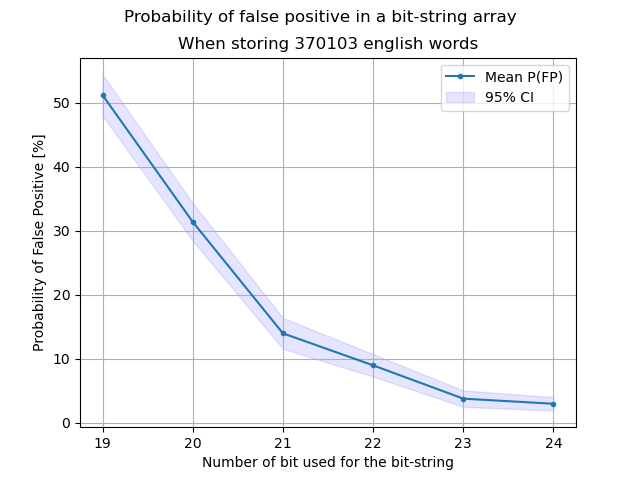
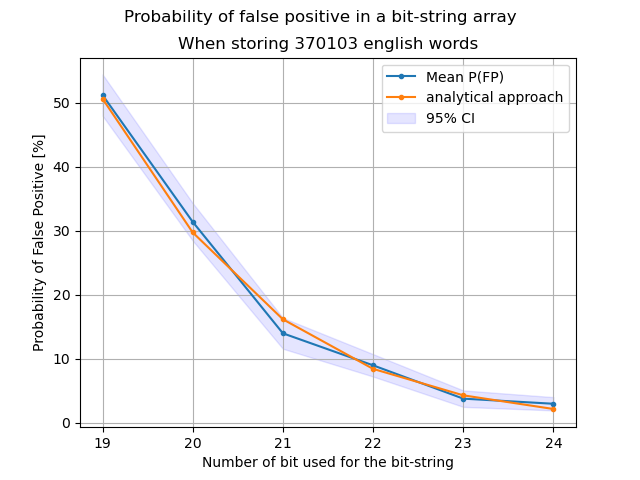
Done without optional parts

diff --git a/Lab3/set_membership_script.py b/Lab3/set_membership_script.py
@@ -46,8 +46,13 @@ def compute_all_hashes(md5, num_hashes, b):
 
 with open("Lab3/words_alpha.txt", "r") as txt:
     words = csv.reader(txt)
+    flag = False
     for line in words:
         words_set.add(line[0])
+        if flag == False and w > 19500:
+            if asizeof.asizeof(words_set) > 1048576:
+                one_MB_bound = w
+                flag = True
         w += 1
 
 print("We have to deal with {} words".format(w))
@@ -55,12 +60,14 @@ print("We have to deal with {} words".format(w))
 start = time.time()
 false_positive_prob_means = []
 false_positive_prob_cis = []
+bs_fp_probabilities_analytical = []
 bf_false_positive_prob_means = []
 bf_false_positive_prob_cis = []
 size_list = []
 bloom_size_list = []
 k_opt_list = []
 theorical_fp_prob_list = []
+theoretical_bf_size_list = []
 
 random.seed(seed)
 
@@ -70,11 +77,11 @@ for n_bits in b:
     k_opt = get_k_opt(n_bits, w)
     k_opt_list.append(int(k_opt)) #rounded at the first integer
 
-    theorical_fp_prob = (1 - math.e ** (-k_opt*w/2**n_bits))**k_opt
+    theorical_fp_prob = (1 - math.e ** (-k_opt*w/2**n_bits))**k_opt # for bloom filter
     theorical_fp_prob_list.append(theorical_fp_prob*100)
     
-    bit_string_array = np.zeros(2**n_bits) # initialize the bitstring array with all zero
-    bloom_filter = np.zeros(2**n_bits) # initialize the bloom filter with all zero
+    bit_string_array = np.zeros(2**n_bits, dtype=bool) # initialize the bitstring array with all zero
+    bloom_filter = np.zeros(2**n_bits, dtype=bool) # initialize the bloom filter with all zero
 
     for word in words_set:
         word_hash = hashlib.md5(word.encode("utf-8")) # md5 hash
@@ -85,12 +92,16 @@ for n_bits in b:
         bloom_filter[all_bits_to_update] = 1 # set the bits to 1 for BF
 
     # test prob of false positive
+    bs_fp_probability = (np.sum(bit_string_array) / 2 ** n_bits) * 100 # analytical fp prob bitstring
+    analytical_prob_bf = (np.sum(bloom_filter)/(2**n_bits))**k_opt # analytical fp prob bloom filter
     ba_size = asizeof.asizeof(bit_string_array) # get the size
-    bf_size = asizeof.asizeof(bloom_filter)
+    bf_size = asizeof.asizeof(bloom_filter) # get the size
+    bs_fp_probabilities_analytical.append(bs_fp_probability) # append in the list
     size_list.append(ba_size/1024) # append it in order to save the output in kb
     bloom_size_list.append(bf_size/1024) # append the size of BF in kb
     run_means = np.zeros(runs) # list with means of the runs
     bf_run_means = np.zeros(runs) # list with means of the runs for BF
+    
 
     for run in range(runs):
         fp_counter = 0 # false positive counter for bitstring
@@ -122,21 +133,33 @@ for n_bits in b:
     ci_bf = retrieve_ci(mean_bf, std_bf) # retrieve the CI
     bf_false_positive_prob_means.append(mean_bf*100)
     bf_false_positive_prob_cis.append(ci_bf*100)
+    theoretical_bf_size = w * 1.44 * math.log2(1/theorical_fp_prob) # theoretical size for bloom filter in bits
+    theoretical_bf_size_list.append(theoretical_bf_size/(1024*8)) # append in kb
 
     if debug:
+        print('>>>BITSTRING')
         print(f'Bitstring fp for {n_bits}bits = {mean*100}% (mean value)')
+        print(f'Bitstring analytical fp prob. for {n_bits} = {bs_fp_probability}%')
+        print(f'Bitstring actual size = {ba_size/1024} kb')
+        
+        print('>>>BLOOM FILTER')
+        print(f'Bloom filter analytical fp for {n_bits}bits = {analytical_prob_bf*100}% (mean value)')
         print(f'Bloom filter fp for {n_bits}bits = {mean_bf*100}% (mean value)')
-        print(f'Bloom filter theory fp for {n_bits}bits = {theorical_fp_prob*100}%\n')
-    
+        print(f'Bloom filter theory fp for {n_bits}bits = {theorical_fp_prob*100}%')
+        print(f'Bloom filter theoretical size = {theoretical_bf_size/(1024*8)} kb')
+        print(f'Bloom filter actual size = {bf_size/1024} kb')
+        print('\n')
+
 
     #print(f"P(FP) = {fp_counter/fp_attempt*100:.2f}% for 2^{n_bits} bits allocated")
     #print(f"Bit String Array size with 2^{n_bits} bits allocated = {ba_size/1024:.2f} KB")
     #print(f"Bloom filter size with 2^{n_bits} bits allocated = {bf_size/1024:.2f} KB")
 
-datafile_sim = open(f"Lab3/BitstringHash{runs}runs.dat", "w") # open an empty file
-print("#bits\tciLow\tP(FP)\tciHigh\tsize(KB)\tkopt\tBFciLow\tBFp(FP)\tBFciHigh\tTHfpProb", file=datafile_sim)
+datafile_sim = open(f"Lab3/lab3{runs}runs.dat", "w") # open an empty file
+print("#bits\tanalyticalFPBS\tciLow\tP(FP)\tciHigh\tsize(KB)\tkopt\tBFciLow\tBFp(FP)\tBFciHigh\tTHfpProb\tBFsize(KB)", file=datafile_sim)
 for i in range(len(b)):
     print(b[i], # nbits
+        bs_fp_probabilities_analytical[i], # fp prob analytical approach bitstring
         false_positive_prob_means[i] - false_positive_prob_cis[i], # ccLow bitstring
         false_positive_prob_means[i], # mean bitstring
         false_positive_prob_means[i] + false_positive_prob_cis[i], # ciHigh bitstring
@@ -146,8 +169,55 @@ for i in range(len(b)):
         bf_false_positive_prob_means[i], # mean bloom filter
         bf_false_positive_prob_means[i] + bf_false_positive_prob_cis[i], # ciHigh bloom filter
         theorical_fp_prob_list[i], # theoretical fp prob for bloom filter
+        bloom_size_list[i], # bloom filter size
+        theoretical_bf_size_list[i], # theoretical bf size
         sep="\t", file=datafile_sim)
 datafile_sim.close()
+
+
+print("\nTo resume:\n")
+pd.set_option('display.float_format', lambda x: '%.8f' % x)
+df = pd.DataFrame(data={
+                        'Bits per fingerprint':b,
+                        'Optimal # hash functions:':k_opt_list,
+                        'Prob. false positive [%]':theorical_fp_prob_list,
+                        'Min theoretical memory [KB]':theoretical_bf_size_list,
+                        'Actual memory [KB]':bloom_size_list}
+                )
+
+print(df.set_index('Bits per fingerprint'))
+
+# question 9
+#
+# 1 MB = 1024 KB = 1048576 Bytes = 8388608 bits
+# 
+# reversing the formula for bitstring we have
+# b = log2(n) where n is the total storage for bitstring array
+# 
+# same for bloom filter#
+
+one_MB_bits = math.log2(8388608)
+
+print(f"\nHaving 1MB available for the dictionary set membership problem\n\
+    corresponds to the case with {one_MB_bits} bits for the fingerprinting\n")
+
+# Computation for bits allocated for fingerprint table
+# 8388608 bits = 370103 * b
+b_finger = 8388608 / w
+b_finger = math.floor(b_finger) # round to the floor integer
+print('Bits allocated for each fingerprint = ', b_finger)
+n = 2 ** b_finger # get n 
+finger_fp_prob = (1-(1-(1/n))**w) * 100 # compute the false positive probability
+
+print('\n')
+df = pd.DataFrame(data={
+                        'Storage':['Words set', 'Fingerprint set', 'Bitstring array', 'Bloom filter'],
+                        'Prob. false positive':[f'It stores {one_MB_bound} words', str(finger_fp_prob)+'%', '4.3161%', '0.0019%'],
+                        }
+                )
+
+print(df.set_index('Storage'))
+
 
 
 

diff --git a/Lab3/graph_script.py b/Lab3/graph_script.py
@@ -5,6 +5,7 @@ import os
 def plot_graph_probability(input_filename,output_filename):
 
     b = []
+    analytical = []
     mean = []
     ci1=[]
     ci2=[]
@@ -21,11 +22,13 @@ def plot_graph_probability(input_filename,output_filename):
                 first_line=False
             else:
                 b.append(int(row[0]))
-                ci1.append(float(row[1]))
-                mean.append(float(row[2]))
-                ci2.append(float(row[3]))
+                analytical.append(float(row[1]))
+                ci1.append(float(row[2]))
+                mean.append(float(row[3]))
+                ci2.append(float(row[4]))
             
     plt.plot(b, mean, label='Mean P(FP)', marker='.')
+    plt.plot(b, analytical, label='analytical approach', marker='.')
     plt.fill_between(b, ci1, ci2, color='b', alpha=.1, label='95% CI')
     plt.xlabel('Number of bit used for the bit-string')
     plt.ylabel('Probability of False Positive [%]')
@@ -55,7 +58,7 @@ def plot_size_graph(input_filename,output_filename):
                 first_line=False
             else:
                 b.append(int(row[0]))
-                size.append(float(row[4]))
+                size.append(float(row[5]))
             
     plt.plot(b, size, marker='.')
     plt.xlabel('Number of bit used for the bit-string')
@@ -88,10 +91,10 @@ def plot_graph_probability_bloom(input_filename,output_filename):
                 first_line=False
             else:
                 b.append(int(row[0]))
-                ci1.append(float(row[6]))
-                mean.append(float(row[7]))
-                ci2.append(float(row[8]))
-                theory.append(float(row[9]))
+                ci1.append(float(row[7]))
+                mean.append(float(row[8]))
+                ci2.append(float(row[9]))
+                theory.append(float(row[10]))
             
     plt.plot(b, mean, label='Mean P(FP)', marker='.')
     plt.plot(b, theory, label='Theoretical P(FP)', marker='.')
@@ -124,7 +127,7 @@ def plot_kopt_vs_bits(input_filename,output_filename):
                 first_line=False
             else:
                 b.append(int(row[0]))
-                k_opt.append(float(row[5]))                
+                k_opt.append(float(row[6]))                
             
     plt.plot(b, k_opt, marker='.')
     plt.xlabel('Number of bit used for the bit-string')
@@ -140,7 +143,7 @@ def plot_kopt_vs_bits(input_filename,output_filename):
 
 
 
-plot_graph_probability('Lab3/BitstringHash100runs.dat', 'probability_chart.png')
-plot_graph_probability_bloom('Lab3/BitstringHash100runs.dat', 'bf_prob_chart.png')
-plot_size_graph('Lab3/BitstringHash100runs.dat', 'size_chart.png')
-plot_kopt_vs_bits('Lab3/BitstringHash100runs.dat', 'k_opt_chart.png')
+plot_graph_probability('Lab3/lab3100runs.dat', 'probability_chart.png')
+plot_graph_probability_bloom('Lab3/lab3100runs.dat', 'bf_prob_chart.png')
+plot_size_graph('Lab3/lab3100runs.dat', 'size_chart.png')
+plot_kopt_vs_bits('Lab3/lab3100runs.dat', 'k_opt_chart.png')

diff --git a/Lab3/ex2_2.py b/Lab3/ex2_2.py
@@ -1,0 +1,74 @@
+import csv
+import hashlib
+import time
+import math
+from pympler import asizeof
+import numpy as np
+import pandas as pd
+import random
+from scipy.stats import t
+
+## a function which read the file and store it
+# in a set of words it returns
+# the set and the number of words
+def read_dictionary(dict_file):
+    words_set = set() # initialize the set
+    counter = 0 # initialize the counter
+    with open(dict_file, "r") as txt: # open the file
+        words = csv.reader(txt)
+        for line in words:
+            words_set.add(line[0])
+            counter += 1
+    return words_set, counter
+
+# input parameters
+x = [i for i in range(19, 25)] # define all the given exponents
+words_set, w = read_dictionary('Lab3/words_alpha.txt')# import the dictionary
+debug = True
+bs_fp_probabilities = [] # list that tracks the false positive prob for bitstring
+bs_actual_size_list = [] # list that tracks the actual sizes for bitstring
+
+print('\n***START ENGINE***\n')
+print(f'The dictionary file contains {w} words')
+
+for bits in x:
+
+    bitstring = np.zeros(2 ** bits, dtype=bool) # initialize the bitstring with 'bits' bits
+    
+
+    for word in words_set:
+
+        word_hash = hashlib.md5(word.encode("utf-8")) # md5 hash
+        word_hash = int(word_hash.hexdigest(), 16) # cast integer format
+        h = word_hash % 2 ** bits # map into a given range [0, 2^b - 1] for bitstring
+        bitstring[h] = 1 # add the hash in the set
+    
+    # analytical approach
+    bs_fp_probability = (np.sum(bitstring) / 2 ** bits) * 100 # compute the prob of false positive for bitstring array in %
+    bs_fp_probabilities.append(bs_fp_probability) # append in the list
+    bs_size = asizeof.asizeof(bitstring) # compute the size in bytes
+    bs_actual_size_list.append(bs_size) # append the size in the list
+
+    if debug:
+        print(f'Bitstring length = {len(bitstring)}')
+        print(f'P(FP) = {bs_fp_probability:.4f}% in a bitstring array whose shape is {bits}')
+        print(f'Actual size for the bitstring with {bits} bits = {bs_size/1024:.2f}kB')
+
+
+print('\n***PROCESS TERMINATED***\n')
+
+print('***GENERATE A FILE***\n')
+
+datafile_sim = open(f"Lab3/analytical.dat", "w") # open an empty file
+print("#bits\tp(FP)\tsize(KB)", file=datafile_sim)
+for i in range(len(x)):
+    print(x[i], # nbits
+        bs_fp_probabilities[i], # false positive prob bitstring
+        bs_actual_size_list[i]/1024, # actual size bitstring in kB
+        sep="\t", file=datafile_sim)
+datafile_sim.close()
+
+print('***FILE GENERATED***')
+
+
+

diff --git a/Lab3/lab3_script.py b/Lab3/lab3_script.py
@@ -22,7 +22,7 @@ start = time.time()
 
 fingerprint_set = set() # initialize the set       
 size_empty_set = asizeof.asizeof(fingerprint_set)
-for b in range(1, w):
+for b in range(20, w): # 20 is a good starting number
     for word in words_set:
         word_hash = hashlib.md5(word.encode("utf-8")) # md5 hash
         word_hash = int(word_hash.hexdigest(), 16) # cast integer format

diff --git a/Lab3/prova.py b/Lab3/prova.py
@@ -1,6 +1,10 @@
-import numpy as np
-a = [1, 1, 1, 1, 0, 0]
-arr = np.array(a)
-idx = [1,3]
-if arr[idx].all() == 1:
-    print('ok')
+import math
+
+# question 9
+#
+# 1 MB = 1024 KB = 1048576 Bytes = 8388608 bits
+# #
+
+b = math.log2(8388608)
+
+print('Fingerprinting bytes = ', b)
